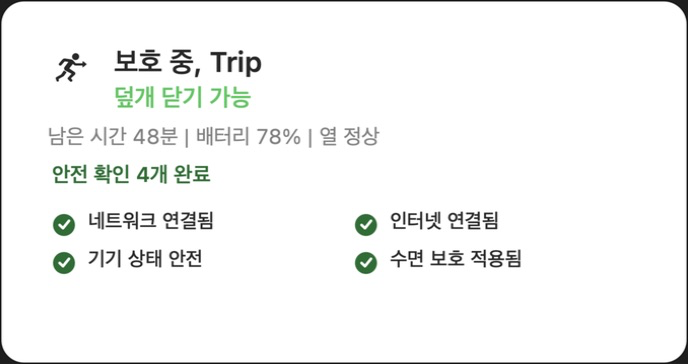
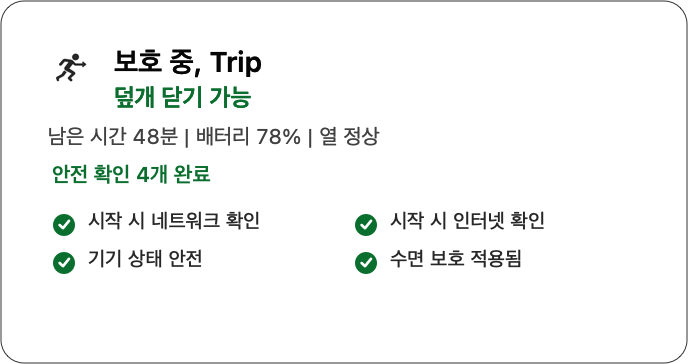
fix: 상태 확인 근거와 공개 이미지 경계 보강

diff --git a/Tests/RuntinueMenuBarTests/MenuBarModelsTests.swift b/Tests/RuntinueMenuBarTests/MenuBarModelsTests.swift
@@ -292,6 +292,10 @@ final class MenuBarModelsTests: XCTestCase {
 
     XCTAssertEqual(verified.title, "안전 확인 4개 완료")
     XCTAssertEqual(verified.items.map(\.state), [.passed, .passed, .passed, .verified])
+    XCTAssertEqual(
+      Array(verified.items.prefix(2).map(\.text)),
+      ["시작 시 네트워크 확인", "시작 시 인터넷 확인"]
+    )
     XCTAssertEqual(verified.items.last?.text, "수면 보호 적용됨")
     XCTAssertEqual(unverified.title, "보호 적용, 덮개 닫기 미승인")
     XCTAssertEqual(unverified.items.map(\.state), [.passed, .passed, .passed, .passed])
@@ -317,7 +321,10 @@ final class MenuBarModelsTests: XCTestCase {
     )
     XCTAssertEqual(acquiring.title, "안전 확인 중 3/4")
     XCTAssertEqual(acquiring.items.map(\.state), [.passed, .passed, .passed, .current])
-    XCTAssertEqual(acquiring.items.last?.text, "수면 보호 확인 중")
+    XCTAssertEqual(
+      acquiring.items.map(\.text),
+      ["시작 시 네트워크 확인", "시작 시 인터넷 확인", "기기 상태 안전", "수면 보호 확인 중"]
+    )
   }
 
   func testTripChecklistSeparatesReleaseRecoveryAndCompletedSafetyStop() throws {
@@ -359,8 +366,11 @@ final class MenuBarModelsTests: XCTestCase {
       ).safetyChecklist
     )
     XCTAssertEqual(unsafeEnded.title, "안전 중단 완료")
-    XCTAssertEqual(unsafeEnded.items.map(\.state), [.failed, .verified])
-    XCTAssertEqual(unsafeEnded.items.map(\.text), ["기기 안전 기준 벗어남", "정상 수면 복구됨"])
+    XCTAssertEqual(unsafeEnded.items.map(\.state), [.failed, .unknown])
+    XCTAssertEqual(
+      unsafeEnded.items.map(\.text),
+      ["기기 안전 기준 벗어남", "정상 수면 상태 확인 필요"]
+    )
     XCTAssertFalse(unsafeEnded.items.map(\.text).contains("기기 상태 안전"))
   }
 

diff --git a/Sources/RuntinueMenuBar/MenuBarModels.swift b/Sources/RuntinueMenuBar/MenuBarModels.swift
@@ -204,8 +204,8 @@ struct SafetyChecklistPresentation: Equatable, Sendable {
       return SafetyChecklistPresentation(
         title: "안전 확인 중 3/4",
         items: [
-          SafetyCheckItem(text: "네트워크 연결됨", state: .passed),
-          SafetyCheckItem(text: "인터넷 연결됨", state: .passed),
+          SafetyCheckItem(text: "시작 시 네트워크 확인", state: .passed),
+          SafetyCheckItem(text: "시작 시 인터넷 확인", state: .passed),
           SafetyCheckItem(text: "기기 상태 안전", state: .passed),
           SafetyCheckItem(text: "수면 보호 확인 중", state: .current),
         ]
@@ -215,8 +215,8 @@ struct SafetyChecklistPresentation: Equatable, Sendable {
         title: status.closedLidAllowed
           ? "안전 확인 4개 완료" : "보호 적용, 덮개 닫기 미승인",
         items: [
-          SafetyCheckItem(text: "네트워크 연결됨", state: .passed),
-          SafetyCheckItem(text: "인터넷 연결됨", state: .passed),
+          SafetyCheckItem(text: "시작 시 네트워크 확인", state: .passed),
+          SafetyCheckItem(text: "시작 시 인터넷 확인", state: .passed),
           SafetyCheckItem(text: "기기 상태 안전", state: .passed),
           SafetyCheckItem(
             text: "수면 보호 적용됨",
@@ -254,7 +254,7 @@ struct SafetyChecklistPresentation: Equatable, Sendable {
         title: "안전 중단 완료",
         items: [
           SafetyCheckItem(text: "기기 안전 기준 벗어남", state: .failed),
-          SafetyCheckItem(text: "정상 수면 복구됨", state: .verified),
+          SafetyCheckItem(text: "정상 수면 상태 확인 필요", state: .unknown),
         ]
       )
     case .unknown:

diff --git a/Tests/RuntinueMenuBarTests/FlowlineViewsTests.swift b/Tests/RuntinueMenuBarTests/FlowlineViewsTests.swift
@@ -102,8 +102,8 @@ final class SafetyChecklistViewsTests: XCTestCase {
         SafetyChecklistPresentation(
           title: "안전 확인 4개 완료",
           items: [
-            SafetyCheckItem(text: "네트워크 연결됨", state: .passed),
-            SafetyCheckItem(text: "인터넷 연결됨", state: .passed),
+            SafetyCheckItem(text: "시작 시 네트워크 확인", state: .passed),
+            SafetyCheckItem(text: "시작 시 인터넷 확인", state: .passed),
             SafetyCheckItem(text: "기기 상태 안전", state: .passed),
             SafetyCheckItem(text: "수면 보호 적용됨", state: .verified),
           ]
